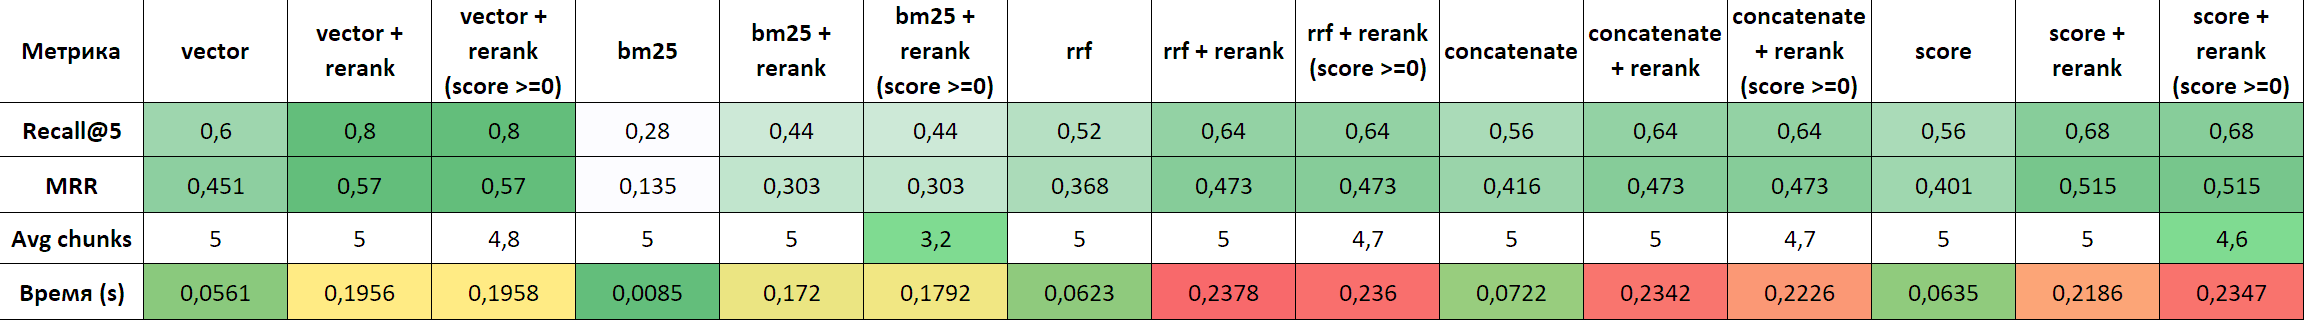
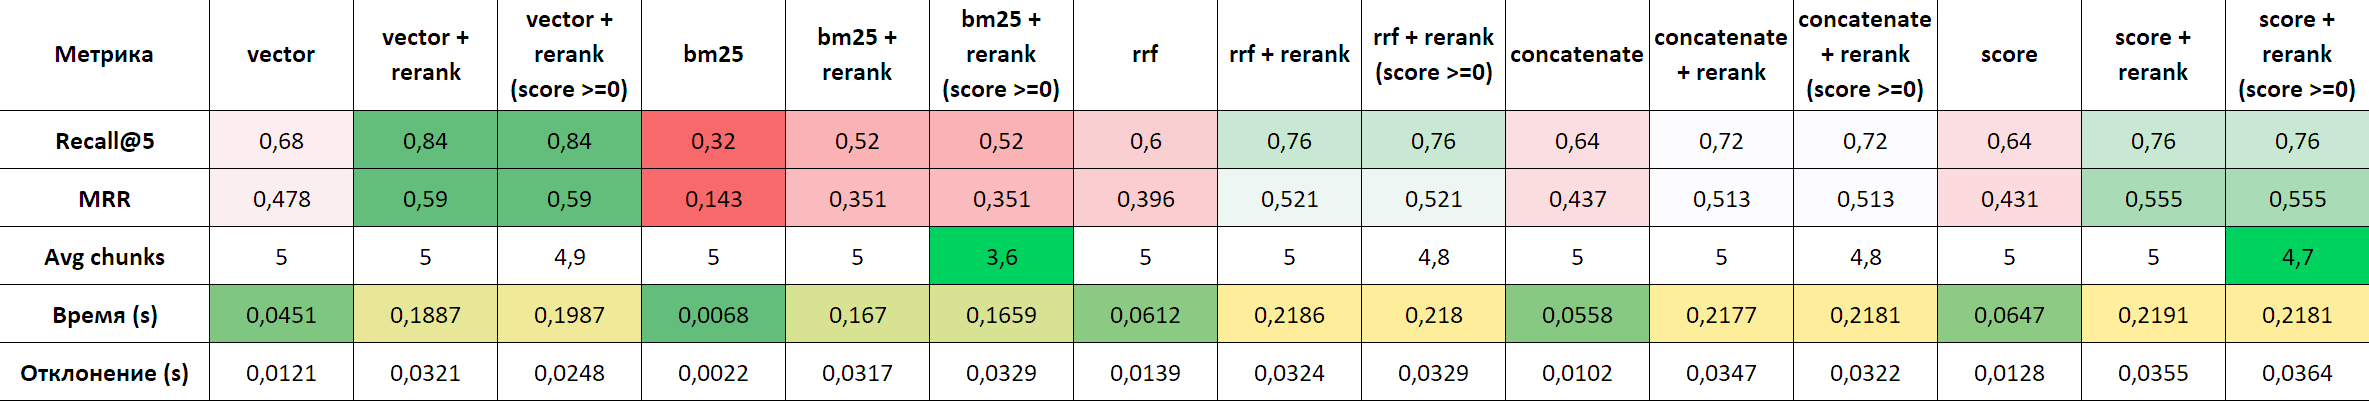
update metrics

diff --git a/src/metrics.py b/src/metrics.py
@@ -1,8 +1,9 @@
-import json, time, os, random, pandas as pd, ollama
-from src.main import hybrid_search, LLM_MODEL_NAME, bm25_docs, bm25_meta
+import json, time, os, statistics, random, pandas as pd, ollama
+from main import hybrid_search, LLM_MODEL_NAME, bm25_docs, bm25_meta
 
 GROUND_TRUTH = "metrics/ground_truth.json"
 N_QUESTIONS = 25
+N_RUNS = 3
 
 configs = [
     ("vector", False, None),
@@ -40,7 +41,7 @@ def calc_metrics(chunks: list, ground_truth: list, k: int = 5):
             gt_source = gt["source"]
             gt_span = " ".join(gt["span"].lower().split())
 
-            if gt_span and source.endswith(gt_source) and gt_span in text:
+            if gt_span and source == gt_source and gt_span in text:
                 matched_gt_indices.add(idx)
                 if first_rank == 0:
                     first_rank = rank
@@ -54,11 +55,11 @@ def gen_dataset(num_q: int = N_QUESTIONS):
     docs = [i for i, doc in enumerate(bm25_docs) if doc and len(doc.strip()) > 300 and bm25_meta[i]]
 
     random.seed(33)
-    sampled = random.sample(docs, len(docs))
+    random.shuffle(docs)
 
     dataset = []
 
-    for idx in sampled:
+    for idx in docs:
         if len(dataset) >= num_q:
             break
 
@@ -98,6 +99,7 @@ def gen_dataset(num_q: int = N_QUESTIONS):
                 )
 
         except Exception as e:
+            print(f"Ошибка генерации для чанка {idx}: {e}")
             continue
 
     with open(GROUND_TRUTH, "w", encoding="utf-8") as f:
@@ -112,31 +114,40 @@ if __name__ == "__main__":
     else:
         dataset = gen_dataset(N_QUESTIONS)
 
-    for _ in range(3): #прогрев
-        hybrid_search(dataset[0]["question"], n_results = 25)
+    warmup_q = dataset[0]["question"]
     
     results = {}
     for mode, reranker, threshold in configs:
         label = f"{mode}{' + rerank' if reranker else ''}{' (score >=0)' if threshold is not None else ''}"
+
+        for _ in range(3):
+            hybrid_search(warmup_q, n_results=25, mode=mode, use_reranker=reranker, score_threshold=threshold)
+
         recalls, rrs, times, counts = [], [], [], []
 
         for item in dataset:
-            start = time.perf_counter()
             chunks = hybrid_search(item["question"], n_results=25, mode=mode, use_reranker=reranker, score_threshold=threshold)
-            times.append(time.perf_counter() - start)
-            counts.append(len(chunks))
-
             recall, rr = calc_metrics(chunks, item["ground_truth"])
             recalls.append(recall)
             rrs.append(rr)
+            counts.append(len(chunks))
+
+            for _ in range(N_RUNS):
+                start = time.perf_counter()
+                hybrid_search(item["question"], n_results=25, mode=mode, use_reranker=reranker, score_threshold=threshold)
+                times.append(time.perf_counter() - start)
+
+        avg_time = round(sum(times) / len(times), 4)
+        std_time = round((statistics.stdev(times) if len(times) > 1 else 0.0), 4)
 
         results[label] = {
                 "Recall@5": round(sum(recalls) / len(recalls), 3),
                 "MRR": round(sum(rrs) / len(rrs), 3),
-                "Avg chunks": round(sum(counts) / len (counts), 1),
-                "Время (s)": round(sum(times) / len(times), 4)
+                "Avg chunks": round(sum(counts) / len(counts), 1),
+                "Время (s)": avg_time,
+                "Отклонение (s)": std_time
             }
+        
     df = pd.DataFrame(results)
-
     df.to_csv("metrics/metrics_results.csv", index_label="Метрика", encoding="utf-8-sig")
     df.to_excel("metrics/metrics_results.xlsx", index_label="Метрика")
